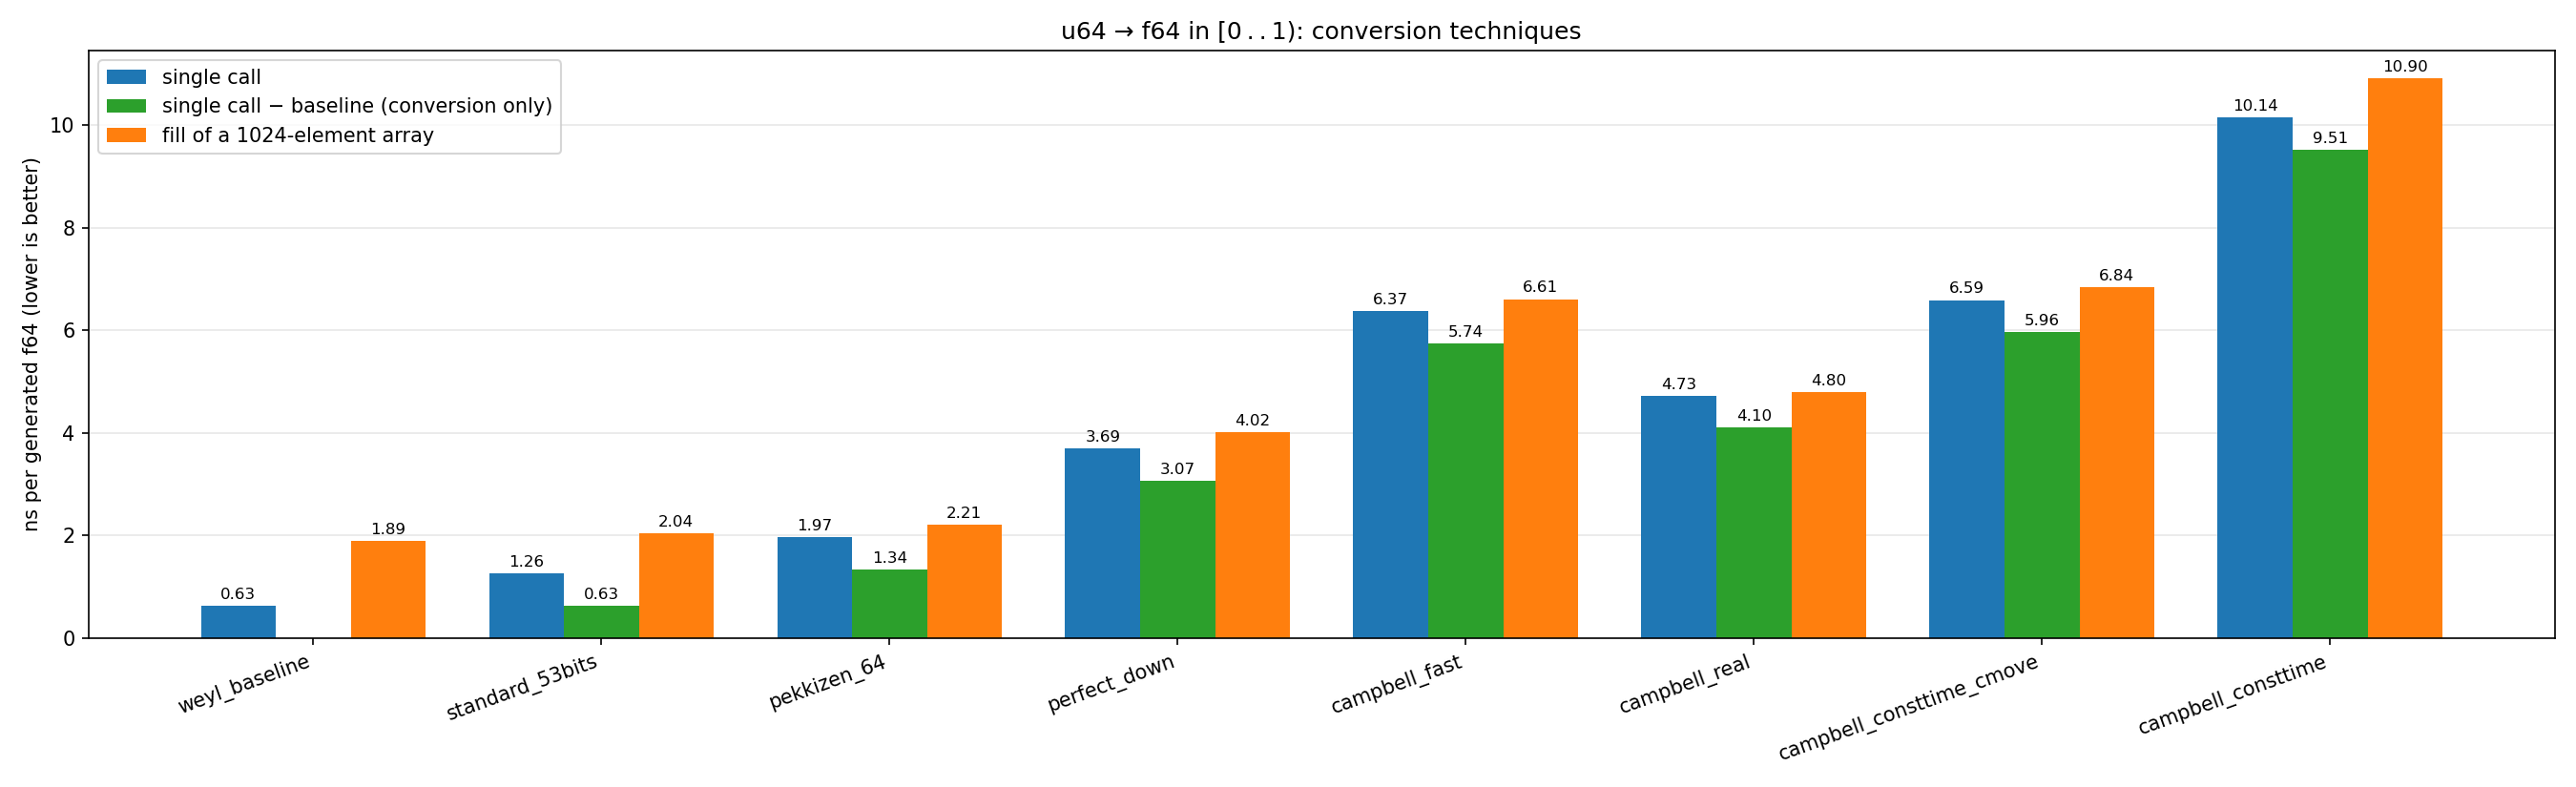
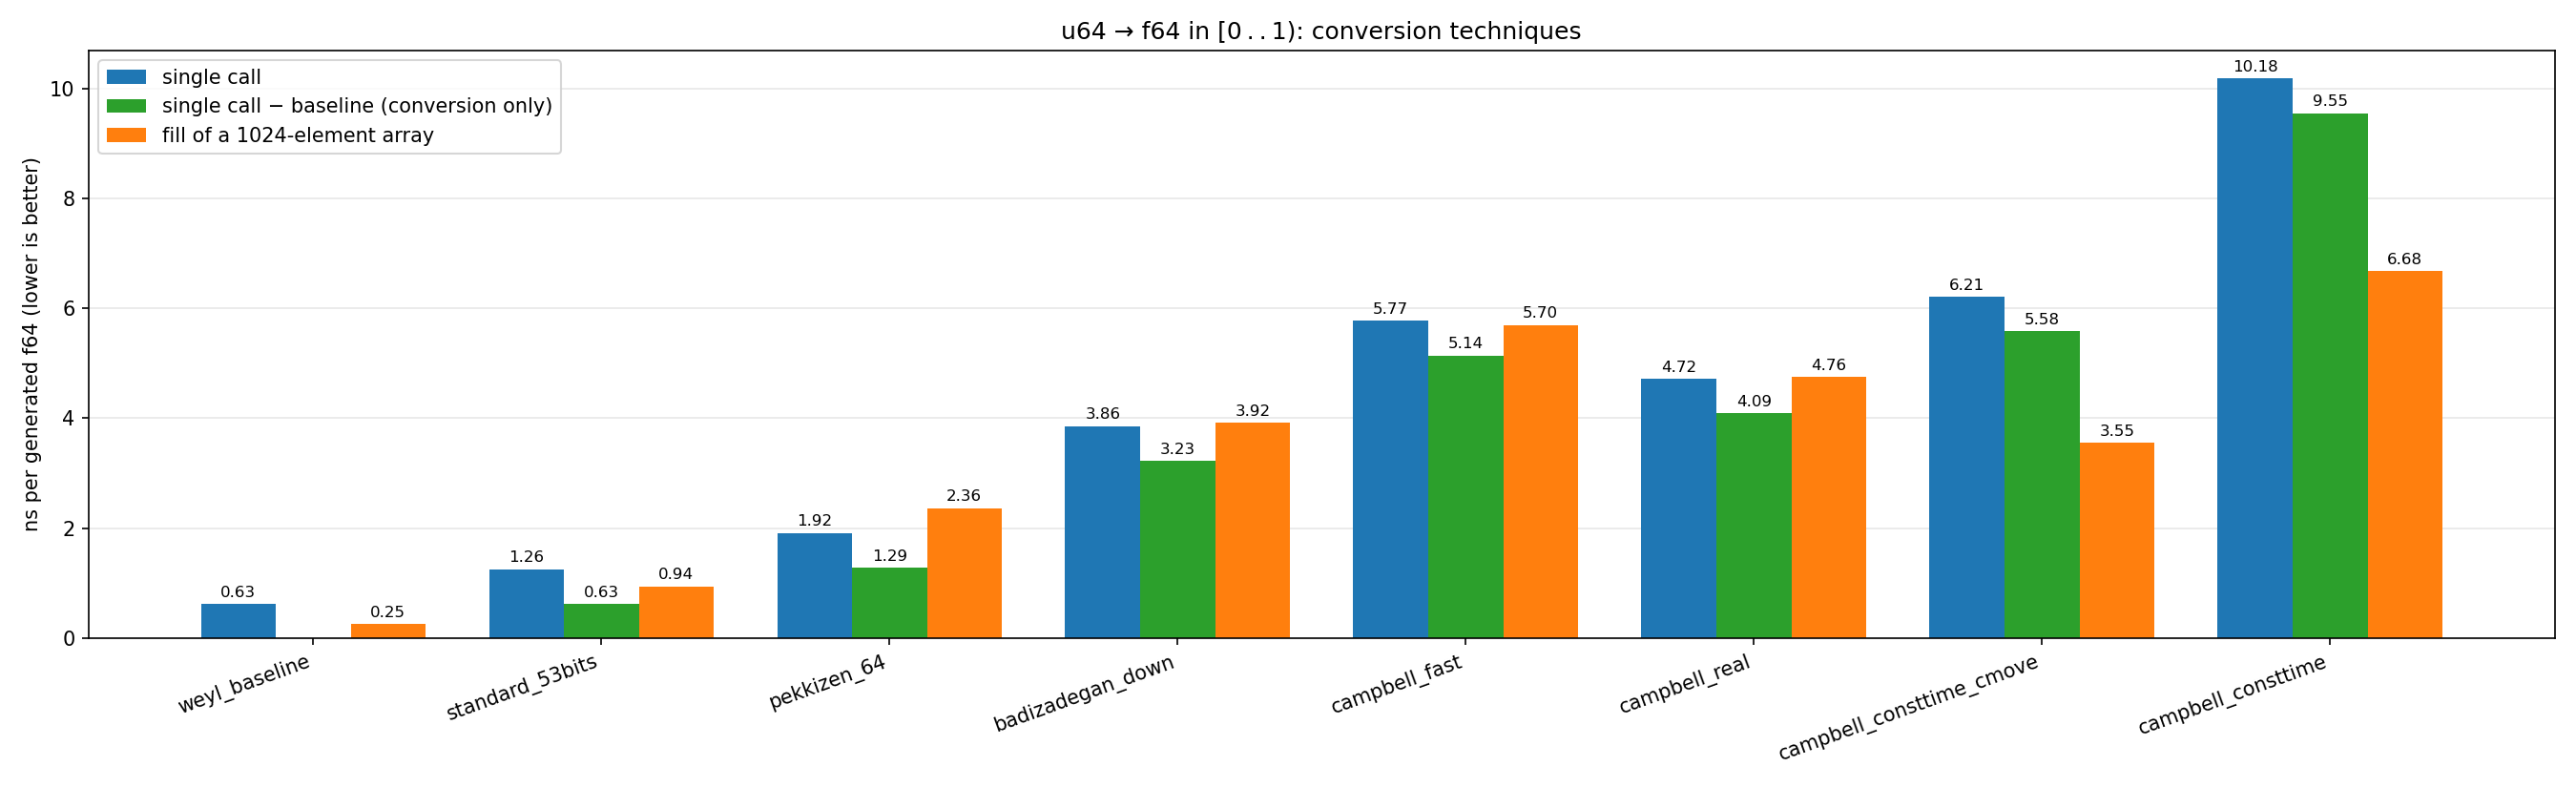
Additional pekkizen functions

diff --git a/src/pekkizen.rs b/src/pekkizen.rs
@@ -1,5 +1,6 @@
 // Derived from the uniFloats wiki of https://github.com/pekkizen/prng
-// (function Float64_64), distributed under the following license:
+// (functions Float64_64, Float64_117 and Float64full), distributed under the
+// following license:
 //
 // MIT License
 //
@@ -25,18 +26,26 @@
 
 //! pekkizen’s leading-zeros technique.
 //!
-//! A Rust port of `Float64_64` from
+//! A Rust port of `Float64_64`, `Float64_117` and `Float64full` from
 //! [pekkizen’s uniFloats wiki](https://github.com/pekkizen/prng/wiki/uniFloats)
-//! (explicit bit-building form). One 64-bit word is interpreted as a
-//! uniform 64-bit fixed-point real in [0 . . 1): the count of leading zeros
+//! (explicit bit-building forms). One 64-bit word is interpreted as a
+//! uniform fixed-point real in [0 . . 1): the count of leading zeros
 //! picks the binade (a geometric distribution), and the remaining bits are
 //! shifted into the mantissa.
 //!
-//! Every float in [2⁻¹² . . 1) is reachable, and below 2⁻¹² the technique
-//! returns the 2⁵² multiples of 2⁻⁶⁴, that is, the value is a uniform real
-//! rounded down to the 2⁻⁶⁴ grid. It consumes exactly one word per call and
-//! costs only a couple of operations more than [`standard`](crate::standard)
-//! scaling, delivering about 2¹¹ times as many distinct values.
+//! The three variants differ in how far down the fixed point extends:
+//!
+//! - [`f64_64`] stops at the first word: a uniform real rounded down to the
+//!   2⁻⁶⁴ grid, complete (every float reachable) in [2⁻¹² . . 1);
+//! - [`f64_117`] draws a second word when the first has 12 or more leading
+//!   zeros (probability 2⁻¹²), extending completeness to [2⁻⁶⁵ . . 1)
+//!   with a 2⁻¹¹⁷ grid below;
+//! - [`f64_full`] additionally keeps drawing words while they are zero,
+//!   reaching every float in [0 . . 1), subnormals included.
+//!
+//! All variants consume one word per call with probability 1 − 2⁻¹² and, in
+//! the typical case, cost only a couple of operations more than
+//! [`standard`](crate::standard) scaling.
 
 /// Returns a random `f64` distributed as a uniform 64-bit fixed-point real
 /// in [0 . . 1) rounded down to the nearest representable value: every float
@@ -53,6 +62,75 @@ pub fn f64_64(mut bits: impl FnMut() -> u64) -> f64 {
     }
     let z = u.leading_zeros() as u64 + 1;
     f64::from_bits((1023 - z) << 52 | ((u << (z - 1)) << 1) >> 12)
+}
+
+/// Returns 2⁻ⁿ as an `f64`; `n` must be at most 1022.
+#[inline]
+fn two_to_minus(n: u64) -> f64 {
+    debug_assert!(n <= 1022);
+    f64::from_bits((1023 - n) << 52)
+}
+
+/// Returns a random `f64` distributed as a uniform 117-bit fixed-point real
+/// in [0 . . 1) rounded down to the nearest representable value: every
+/// float in [2⁻⁶⁵ . . 1), and the multiples of 2⁻¹¹⁷ below 2⁻⁶⁵.
+///
+/// A port of `Float64_117`: as [`f64_64`], except that when the first word
+/// has 12 or more leading zeros (probability 2⁻¹²) a second word extends the
+/// fixed point to 117 bits.
+#[inline]
+pub fn f64_117(mut bits: impl FnMut() -> u64) -> f64 {
+    let u = bits();
+    let z = u.leading_zeros() as u64 + 1;
+    if z <= 12 {
+        // 99.975% of cases.
+        return f64::from_bits((1023 - z) << 52 | ((u << (z - 1)) << 1) >> 12);
+    }
+    // Kluge; see [`crate::cold::cold_barrier`].
+    crate::cold::cold_barrier();
+    let z = z - 1;
+    // The Go original computes `u << z` with z possibly 64 (first word 0),
+    // which Go defines as 0; `unbounded_shl` mirrors that.
+    let u = u.unbounded_shl(z as u32) | bits() >> (64 - z);
+    (u >> 11) as f64 * two_to_minus(53 + z)
+}
+
+/// Returns a random `f64` distributed as a uniform real in [0 . . 1)
+/// rounded down to the nearest representable value: every float in
+/// [0 . . 1) is reachable, subnormals and 0 included, with probability
+/// equal to the measure of the reals that round down to it.
+///
+/// A port of `Float64full`: as [`f64_117`], except that zero words keep the
+/// zoom going, 64 binades at a time, down to the bottom of the subnormals.
+#[inline]
+pub fn f64_full(mut bits: impl FnMut() -> u64) -> f64 {
+    let mut u = bits();
+    let mut z = u.leading_zeros() as u64 + 1;
+    if z <= 12 {
+        // 99.975% of cases.
+        return f64::from_bits((1023 - z) << 52 | ((u << (z - 1)) << 1) >> 12);
+    }
+    // Kluge; see [`crate::cold::cold_barrier`].
+    crate::cold::cold_barrier();
+    z -= 1;
+    let mut exp = 0u64;
+    while u == 0 {
+        u = bits();
+        z = u.leading_zeros() as u64;
+        exp += 64;
+        if exp + z >= 1074 {
+            return 0.0;
+        }
+    }
+    // The Go original computes `bits() >> (64 - z)` with z possibly 0 after
+    // the loop, which Go defines as 0; `unbounded_shr` mirrors that.
+    let u = u << z | bits().unbounded_shr(64 - z as u32);
+    exp += z;
+    if exp < 1022 {
+        return f64::from_bits((1022 - exp) << 52 | (u << 1) >> 12);
+    }
+    // The 2⁵² subnormal floats.
+    f64::from_bits(u >> (exp - 1022) >> 12)
 }
 
 #[cfg(test)]
@@ -92,5 +170,101 @@ mod tests {
         assert_eq!(f64_64(|| u64::MAX), f64::from_bits(1.0f64.to_bits() - 1));
         assert_eq!(f64_64(|| 1), f64::from_bits((1023 - 64) << 52)); // 2^-64
         assert_eq!(f64_64(|| 0), 0.0);
+    }
+    /// A source that replays a fixed sequence of words, then panics.
+    fn replay(words: &[u64]) -> impl FnMut() -> u64 + '_ {
+        let mut iter = words.iter();
+        move || *iter.next().expect("source exhausted")
+    }
+
+    /// Golden values produced by the verbatim Go code of the wiki, one per
+    /// branch (fast path, slow path, extreme leading-zero counts, zero
+    /// words).
+    #[test]
+    fn known_values_117() {
+        for (words, expected) in [
+            (&[0x8000000000000000, 0][..], 0x3fe0000000000000u64),
+            (&[0xDEADBEEFDEADBEEF, 0][..], 0x3febd5b7ddfbd5b7),
+            (&[1 << 52, 0][..], 0x3f30000000000000),
+            (&[1 << 51, 0xC0FFEE0DDF00D5ED][..], 0x3f20000000000001),
+            (&[1, 0xC0FFEE0DDF00D5ED][..], 0x3bfc0ffee0ddf00d),
+            (&[3, 0xFFFFFFFFFFFFFFFF][..], 0x3c0fffffffffffff),
+            (&[0, 0xC0FFEE0DDF00D5ED][..], 0x3be81ffdc1bbe01a),
+            (&[0, 0][..], 0),
+        ] {
+            assert_eq!(
+                f64_117(replay(words)).to_bits(),
+                expected,
+                "words {words:x?}"
+            );
+        }
+    }
+
+    /// Golden values produced by the verbatim Go code of the wiki; the deep
+    /// sequences exercise the zero-word zoom, the subnormal construction and
+    /// the all-zeros cutoff (which fires before the final exponent add).
+    #[test]
+    fn known_values_full() {
+        for (words, expected) in [
+            (vec![0x8000000000000000], 0x3fe0000000000000u64),
+            (vec![0xDEADBEEFDEADBEEF], 0x3febd5b7ddfbd5b7),
+            (vec![1 << 52], 0x3f30000000000000),
+            (vec![1 << 51, 0xC0FFEE0DDF00D5ED], 0x3f20000000000001),
+            (vec![1, 0xC0FFEE0DDF00D5ED], 0x3bfc0ffee0ddf00d),
+            (vec![3, 0xFFFFFFFFFFFFFFFF], 0x3c0fffffffffffff),
+            (vec![0, 0xC0FFEE0DDF00D5ED, 0xABCD], 0x3be81ffdc1bbe01a),
+            (vec![0, 0, 0xC0FFEE0DDF00D5ED, 0xAB], 0x37e81ffdc1bbe01a),
+            (
+                [vec![0; 15], vec![2, u64::MAX]].concat(),
+                0x000bffffffffffff,
+            ),
+            (
+                [vec![0; 15], vec![1, u64::MAX]].concat(),
+                0x0007ffffffffffff,
+            ),
+            (
+                [vec![0; 16], vec![1 << 50, 0xFFFFFFFFFFFFF]].concat(),
+                0x0000001000000000,
+            ),
+            ([vec![0; 16], vec![3, 0]].concat(), 0),
+            (vec![0; 18], 0),
+        ] {
+            assert_eq!(
+                f64_full(replay(&words)).to_bits(),
+                expected,
+                "words {words:x?}"
+            );
+        }
+    }
+
+    /// XOR-rotate hash over 10⁶ draws, cross-checked against the verbatim Go
+    /// code of the wiki driven by the same Weyl source. The two variants
+    /// agree on any zero-free source stream.
+    #[test]
+    fn matches_go_reference_hash() {
+        let mut rng = Weyl(42);
+        let mut h = 0u64;
+        for _ in 0..1_000_000 {
+            h = h.rotate_left(1) ^ f64_117(|| rng.next_u64()).to_bits();
+        }
+        assert_eq!(h, 0xf9b6db6017240be7);
+
+        let mut rng = Weyl(42);
+        let mut h = 0u64;
+        for _ in 0..1_000_000 {
+            h = h.rotate_left(1) ^ f64_full(|| rng.next_u64()).to_bits();
+        }
+        assert_eq!(h, 0xf9b6db6017240be7);
+    }
+
+    #[test]
+    fn range_117_full() {
+        let mut rng = Weyl(42);
+        for _ in 0..100_000 {
+            let x = f64_117(|| rng.next_u64());
+            assert!((0.0..1.0).contains(&x), "f64_117: {x}");
+            let x = f64_full(|| rng.next_u64());
+            assert!((0.0..1.0).contains(&x), "f64_full: {x}");
+        }
     }
 }

diff --git a/src/badizadegan.rs b/src/badizadegan.rs
@@ -66,27 +66,6 @@ struct EntropyPool<F> {
     nbits: u32,
 }
 
-/// A do-nothing function that forces the compiler to keep the refill branch
-/// of [`EntropyPool::get_bits`] a branch.
-///
-/// This is a kluge, and it is here for speed only: without a genuine function
-/// call in the refill arm, LLVM if-converts it in bulk-generation loops
-/// (observed both on Apple Silicon and 12th-gen Intel), selecting the next
-/// source state with a conditional move whose condition depends on the
-/// current conversion. That puts the whole conversion — the floating-point
-/// subtraction included — on the loop-carried dependency chain of the source,
-/// ~6× slower than predicting the branch, which after the eager draw in
-/// [`EntropyPool::new`] is taken once per ~2¹² calls. A call cannot be
-/// speculated, so the arm containing it cannot be flattened; branch-weight
-/// hints alone (`std::hint::cold_path`) proved insufficient. The `black_box`
-/// keeps the body from being inferred side-effect-free, which would let the
-/// call — and with it the barrier — be optimized away.
-#[cold]
-#[inline(never)]
-fn refill_barrier() {
-    std::hint::black_box(());
-}
-
 impl<F: FnMut() -> u64> EntropyPool<F> {
     #[inline]
     fn new(mut src: F) -> Self {
@@ -109,8 +88,8 @@ impl<F: FnMut() -> u64> EntropyPool<F> {
         let mut result = self.pool;
 
         if self.nbits < n {
-            // Kluge; see [`refill_barrier`].
-            refill_barrier();
+            // Kluge; see [`crate::cold::cold_barrier`].
+            crate::cold::cold_barrier();
             let needed = n - self.nbits;
             self.pool = (self.src)();
             result |= self.pool << self.nbits;

diff --git a/benches/uniform01.rs b/benches/uniform01.rs
@@ -60,6 +60,8 @@ macro_rules! bench_all {
             standard::f64_53bits(|| r.next_u64())
         });
         $one($g, "pekkizen_64", |r| pekkizen::f64_64(|| r.next_u64()));
+        $one($g, "pekkizen_117", |r| pekkizen::f64_117(|| r.next_u64()));
+        $one($g, "pekkizen_full", |r| pekkizen::f64_full(|| r.next_u64()));
         $one($g, "badizadegan_down", |r| {
             badizadegan::f64_down(|| r.next_u64())
         });

diff --git a/src/lib.rs b/src/lib.rs
@@ -2,6 +2,7 @@
 
 pub mod badizadegan;
 pub mod campbell;
+mod cold;
 pub mod pekkizen;
 pub mod sources;
 pub mod standard;

diff --git a/README.md b/README.md
@@ -25,6 +25,8 @@ authors.
 | ------------------- | --------------------------------------------------------------------------------------------- | ------------------------------------------------ | -------------------------------------------------------------- | -------------------- |
 | `standard`          | folklore                                                                                      | equispaced                                       | the 2⁵³ multiples of 2⁻⁵³ in [0 . . 1)                         | 1                    |
 | `pekkizen`          | [pekkizen's uniFloats](https://github.com/pekkizen/prng/wiki/uniFloats) (`Float64_64`)        | uniform real rounded down to a 2⁻⁶⁴ grid         | every float in [2⁻¹² . . 1); 2⁵² values spaced 2⁻⁶⁴ below 2⁻¹² | 1                    |
+| `pekkizen` (`117`) | [pekkizen's uniFloats](https://github.com/pekkizen/prng/wiki/uniFloats) (`Float64_117`)       | uniform real rounded down to a 2⁻¹¹⁷ grid        | every float in [2⁻⁶⁵ . . 1); multiples of 2⁻¹¹⁷ below 2⁻⁶⁵ | 1 + ≈2⁻¹²            |
+| `pekkizen` (`full`)| [pekkizen's uniFloats](https://github.com/pekkizen/prng/wiki/uniFloats) (`Float64full`)       | uniform real in [0 . . 1) rounded **down** | every float in [0 . . 1), including all subnormals        | 1 + ≈2⁻¹²            |
 | `campbell`          | Taylor R. Campbell's `binary64fast.c`                                                         | uniform real in [0 . . 1] rounded **to nearest** | every float in [2⁻¹²⁸ . . 1] and 0                             | 2 (or 3, const-time) |
 | `campbell` (`real`) | Taylor R. Campbell's [`random_real.c`](https://mumble.net/~campbell/2014/04/28/random_real.c) | uniform real in [0 . . 1] rounded **to nearest** | every float in [0 . . 1], including all subnormals             | 1.5 expected         |
 | `badizadegan`       | [fp-rand](https://github.com/specbranch/fp-rand/) (round-down variant)                        | uniform real in (0 . . 1) rounded **down**       | every float in [0 . . 1), including all subnormals             | 1 + ≈2⁻¹²            |
@@ -81,7 +83,7 @@ python/plot_bench.py bench.txt -o bench.pdf`.
 
 ### AMD Ryzen 9 5950X
 
-![AMD Ryzen 9 5950X](img/zen4.jpg)
+![AMD Ryzen 9 5950X](img/Zen4.png)
 
 ### 12th Gen Intel® Core™ i7-12700KF @3.60 GHz
 
@@ -91,6 +93,10 @@ python/plot_bench.py bench.txt -o bench.pdf`.
 
 ![Intel® Xeon® X5660 @2.80 GHz](img/XeonX5660.png)
 
+### Apple M1 Max @2.50 GHz
+
+![Apple M1 Max @2.50 GHz](img/M1.png)
+
 ### Apple M5 Max @4.00 GHz
 
 ![Apple M5 Max @4.00 GHz](img/M5.png)
@@ -98,7 +104,7 @@ python/plot_bench.py bench.txt -o bench.pdf`.
 ## Acnknowledgments
 
 I would like to thank Dima Badizadegan, Taylor C. Campbell, Frédéric Goualard,
-and Reiner Pope for interesting discussions and a lot of useful pointers,
+and Reiner Pope for interesting discussions and a lot of useful pointers.
 
 ## Licensing
 